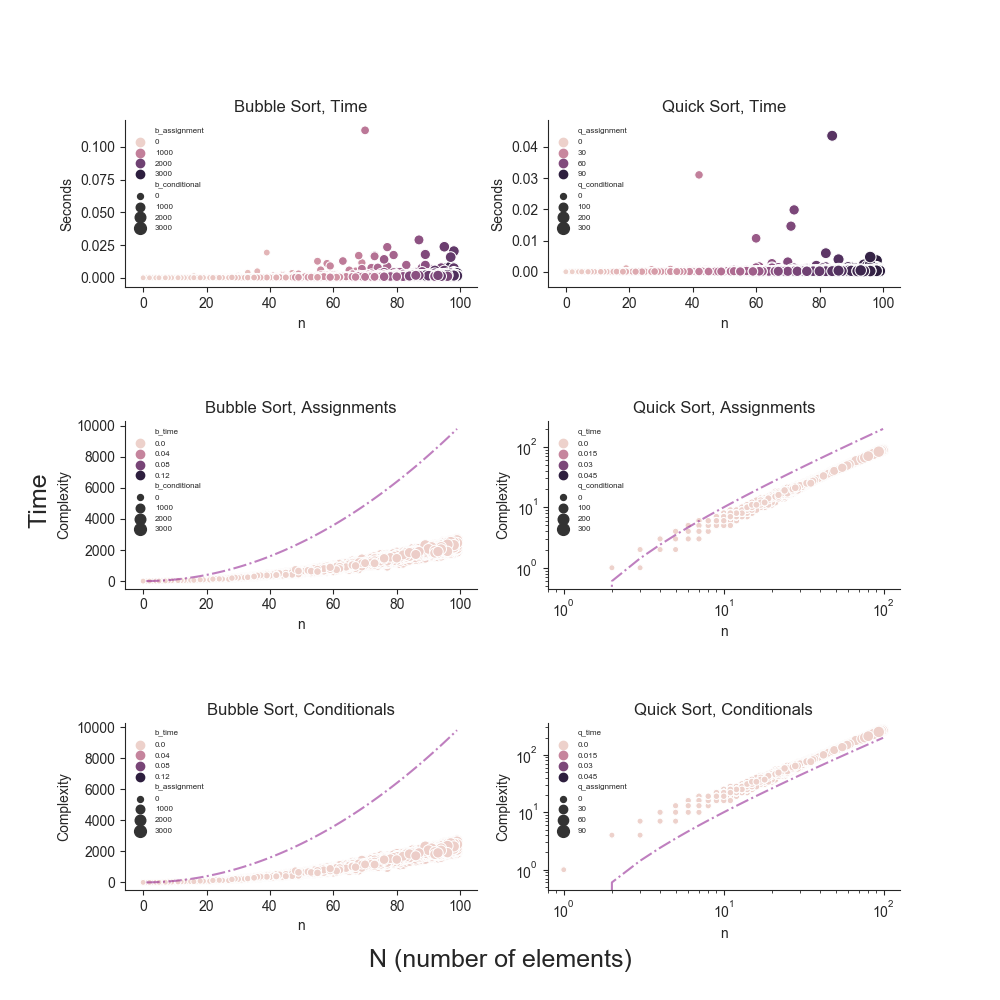
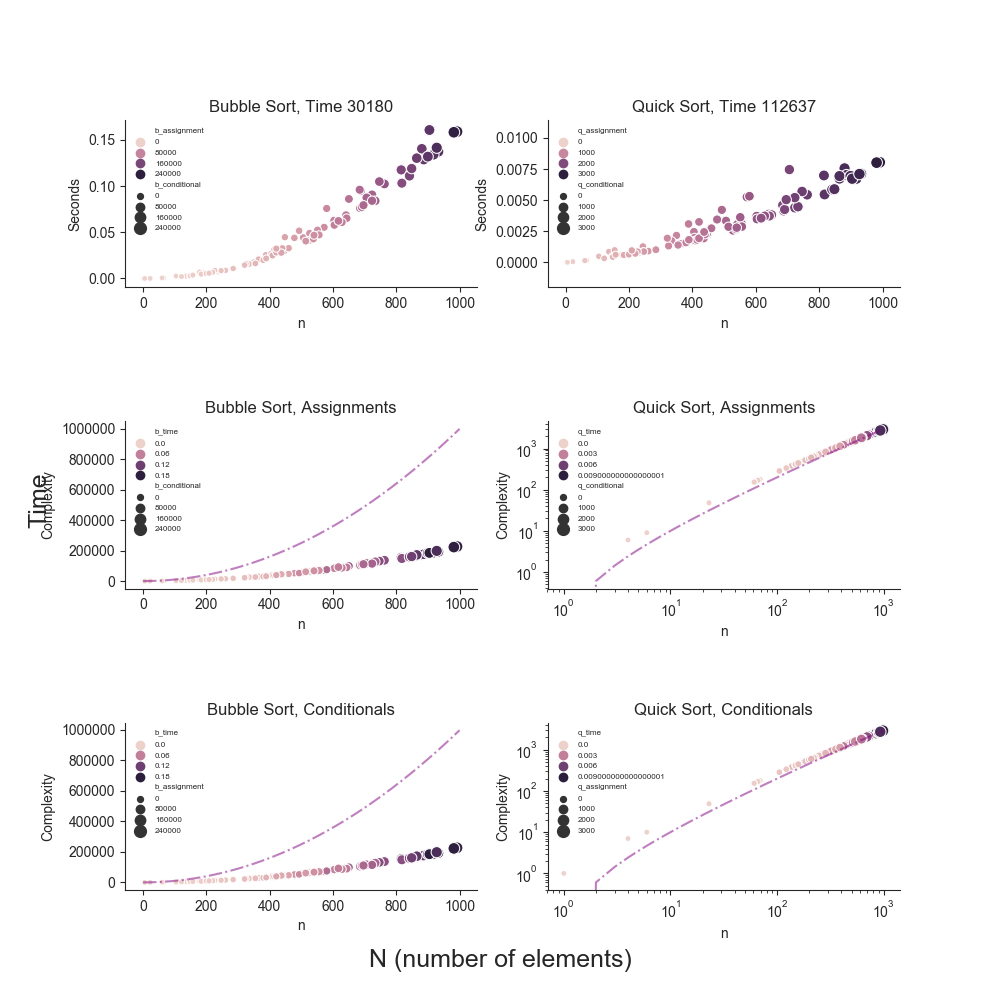
added the graphs for up to 1000

diff --git a/test/test_sort_algs.py b/test/test_sort_algs.py
@@ -13,16 +13,10 @@ collect_test = [test_empty,test_random,test_zero,test_neg]#test_char,
 # could test the number of expected conditionals, assignments?
 # all(l[i] <= l[i+1] for i in range(len(l)-1)) # check that a list is sorted
 
-# def test_pointless_sort():
-    # check that pointless_sort always returns [1,2,3]
-    # assert np.array_equal(sort_algs.run_bubble_sort(x), sorted(x))
-
-    # check that pointless_sort still returns [1,2,3]
-    # assert np.array_equal(sort_algs.pointless_sort(x), sorted(x))
+def test_pointless_sort():
+    assert np.array_equal(sort_algs.pointless_sort(x), np.array([1, 2, 3]))
 
 def test_bubblesort():
-    # for now, just attempt to call the bubblesort function, should
-    # actually check output
     sort_algs.run_bubble_sort(x)
 
     # Actually test bubblesort here. It might be useful to think about
@@ -30,7 +24,7 @@ def test_bubblesort():
     # think about: (1) does your code handle 0-element arrays without
     # failing, (2) does your code handle characters?
 
-    # assert np.array_equal(sort_algs.run_bubble_sort(x)[0], sorted(x))
+    assert np.array_equal(sort_algs.run_bubble_sort(x), sorted(x))
     # for i in collect_test:
         # assert np.array_equal(sort_algs.run_bubble_sort(i)[0], sorted(i))
 

diff --git a/sort/sort_algs.py b/sort/sort_algs.py
@@ -3,6 +3,10 @@ Wren Saylor
 Jan 2018
 Script to implement bubble sort and quick sort
 """
+import numpy as np
+
+def pointless_sort(x):
+    return np.array([1, 2, 3])
 
 def bubble_sort(bubble_list):
     global count_assignments,count_conditionals
@@ -42,7 +46,7 @@ def quick_sort(quick_list):
         # add to the list of values that are larger than the pivot,
         # recursively put through the function
         count_conditionals += 1
-        count_assignments += 1 # not sure if putting value into list is assignment
+        count_assignments += 3 # not sure if putting value into list is assignment
         return quick_sort([x for x in quick_list[1:]
             if x < quick_list[0]]) + [quick_list[0]] + \
             quick_sort([x for x in quick_list[1:]

diff --git a/sort/__main__.py b/sort/__main__.py
@@ -5,9 +5,9 @@ from .sort_runs import run_graphing
 
 def get_args():
 	parser = argparse.ArgumentParser(description="Description")
-	parser.add_argument("-t","--total",type=int,default="10000",help='total number of lists to have')
+	parser.add_argument("-t","--total",type=int,default="100",help='total number of lists to have')
 	parser.add_argument("-a","--max",type=int,default="10",help='max value to have in a list')
-	parser.add_argument("-e","--element",type=int,default="100",help='the range of numbers from which to draw the random number of elements per list')
+	parser.add_argument("-e","--element",type=int,default="1000",help='the range of numbers from which to draw the random number of elements per list')
 	return parser.parse_args()
 
 def main():

diff --git a/sort/sort_runs.py b/sort/sort_runs.py
@@ -126,8 +126,8 @@ def run_graphing(total,max,element):
     ax3.set_title("Bubble Sort, Assignments")#, ${0}$".format(quick_latex)
     ax4.set_title("Quick Sort, Conditionals")#, ${0}$".format(bubble_latex)
     ax5.set_title("Quick Sort, Assignments")#, ${0}$".format(quick_latex)
-    ax0.set_title("Bubble Sort, Time")#, ${0}$".format(bubble_latex)
-    ax1.set_title("Quick Sort, Time")#, ${0}$".format(quick_latex)
+    ax0.set_title("Bubble Sort, Time {0}".format(bubble_o))#, ${0}$".format(bubble_latex)
+    ax1.set_title("Quick Sort, Time {0}".format(quick_o))#, ${0}$".format(quick_latex)
     ax0.set_ylabel("Seconds")
     ax1.set_ylabel("Seconds")
     ax0.legend(loc='upper left',frameon=False,fontsize='xx-small')

diff --git a/README.md b/README.md
@@ -44,5 +44,5 @@ python -m pytest
 
 | Sort | Theoretical | Coefficient | n |
 | ---------- |:----------:|:----------:|:----------:|
-| Bubble Sort | ![a](/images/nsquared.gif) | ~30000000 | ~5000 |
-| Quick Sort | ![a](/images/nlogn.gif) | ~200000 |  |
+| Bubble Sort | ![a](/images/nsquared.gif) | ~30000 | ~200 |
+| Quick Sort | ![a](/images/nlogn.gif) | ~100000 | ~40000 |
